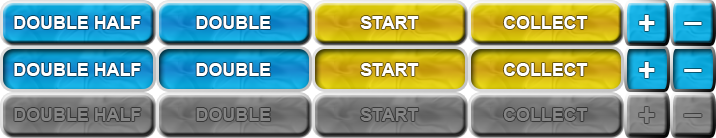
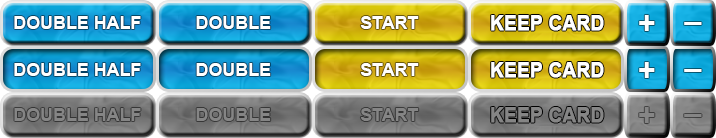
return cards to deck

Changed region(s): [[0.676, 0.7536, 0.8603, 0.8986], [0.676, 0.4348, 0.8603, 0.5797], [0.676, 0.087, 0.8603, 0.2319]]

diff --git a/js/game.js b/js/game.js
@@ -86,14 +86,6 @@ define(function (require) {
 	Game.prototype.createVisualElements = function () {
 		var that = this;
 
-		// this.doubleButton = null;
-		// this.doubleHalfButton = null;
-		// this.startButton = null;
-		// this.collectButton = null;
-		// this.dealedCardsContainer = null;
-		// this.hints = null;
-		// this.message = null;
-		// this.dealedCards = [];
 		this.chosenMultiplier = "";
 
 
@@ -142,7 +134,8 @@ define(function (require) {
 		this.collectButton = new Button( "collect" );
 		this.collectButton.setXY( 1100, settings.gameHeight - 65 );
 		this.collectButton.events.clicked.add(function(){
-			// that.newState(that.STATES.FINISH);
+			that.deck.setChosenCardForKeeping();
+			that.collectButton.deactivate();
 		});
 		this.addChild(this.collectButton);
 
@@ -196,13 +189,13 @@ define(function (require) {
 		switch( game.currentState ) {
 	        case game.STATES.BET_CHOOSING:
 	        	game.hints.changeText( game.hints.TEXTS.BET );
-        		game.deactivateButtons([game.doubleButton, game.doubleHalfButton, game.collectButton]);
+        		game.deactivateButtons([game.doubleButton, game.doubleHalfButton]);
 				game.activateButtons([game.startButton]);
 	        	game.bet.activateButtons();
 	        break;
 
 			case game.STATES.START:
-				game.deactivateButtons([game.startButton, game.collectButton]);
+				game.deactivateButtons([game.startButton]);
 				game.bet.deactivateButtons();
 
 				if ( !game.player.placeBet() ) {// failed to place bet
@@ -231,7 +224,7 @@ define(function (require) {
 	        	game.wins.showFutureWins();
 	        break;
 	        case game.STATES.PICK_A_CARD:
-	        	game.deactivateButtons([game.doubleButton, game.doubleHalfButton, game.collectButton]);
+	        	game.deactivateButtons([game.doubleButton, game.doubleHalfButton]);
 	        	game.wins.hideNotChosenMultiplierSum( game.chosenMultiplier );
 	        	game.hints.hide();
 
@@ -274,7 +267,10 @@ define(function (require) {
         		});
 	        break;
 	        case game.STATES.CARDS_COLLECTION:
+		        game.hints.changeText(game.hints.TEXTS.KEEPING_CARD);
+	        	game.collectButton.activate();
 	        	setTimeout(function(){
+		        	game.collectButton.deactivate();
 	        		game.wins.hideFutureWins();
 	        		game.hints.hide();
 
@@ -282,22 +278,27 @@ define(function (require) {
 	        			game.newState(game.STATES.SWITCH_PLAYERS);
 	        		});
 	        		game.deck.collect();
-	        	}, 500);
+	        	}, 1000 * settings.cardKeepingTimeAvailable);
 	        break;
 	        case game.STATES.SWITCH_PLAYERS:
 	        	game.wins.hide();
 	        	game.switchPlayers(undefined, function(){
-		        	game.newState(game.STATES.BET_CHOOSING);
+	        		if (game.deck.isEmpty()){
+		        		game.newState(game.STATES.FINISH);
+	        		} else {
+			        	game.newState(game.STATES.BET_CHOOSING);
+	        		}
 	        	});
 	        break;
-	      //   case game.STATES.FINISH:
-       //  		game.deactivateButtons([game.doubleButton, game.doubleHalfButton, game.collectButton]);
-    			// game.activateButtons([game.startButton]);
-    			// game.bet.activateButtons();
-	      //   	game.wins.hide();
-	      //   break;
+	        case game.STATES.FINISH:
+	        	var gameOverText = "GAME OVER!";
+	        	game.players.forEach(function(player){
+	        		gameOverText += "\n" + player.getFinalBalanceText();
+	        	});
+	        	game.hints.changeText( gameOverText );
+	        break;
 	        default:
-	        	throw "no state:"+state;
+	        	throw "no such state:"+state;
 	        break;
 	   	}
 	};

diff --git a/js/deck.js b/js/deck.js
@@ -19,7 +19,7 @@ define(function (require) {
 		this.dealerCard = null;
 		this.playerCard = null;
 
-		this.cardsLeft = this.allCards.shuffle();
+		this.cardsLeft = this.allCards.slice(0).shuffle();
 		this.cardsLeft.forEach(function(card, i){
 			this.addChild(card, this.cardsLeft.length-1);
 			card.position.x=125-i/4;
@@ -36,6 +36,10 @@ define(function (require) {
 
 	Deck.prototype = Object.create( PIXI.DisplayObjectContainer.prototype );
 
+	Deck.prototype.isEmpty = function () {
+		return this.cardsLeft.length === 0;
+	};
+
 	Deck.prototype.handlePick = function( pickedCard ){
 		this.playerCard = pickedCard;
 		this.disableCardPick();
@@ -47,35 +51,33 @@ define(function (require) {
 		var that = this,
 			cardIndex = settings.totalPlayableCards - 1;
 
-		[].range(0, settings.totalPlayableCards-1).forEach(function(i){
+		var cardsToDeal = Math.min(settings.totalPlayableCards, that.cardsLeft.length);
+
+		[].range(0, cardsToDeal-1).forEach(function(index){
 			var card = that.cardsLeft.pop();
-			if (!card) return;
 			that.cardsArr.unshift(card);
 			card.events.clicked.add( function( pickedCard ){
 				that.handlePick( pickedCard );
 				that.events.cardPicked.dispatch();
 			});
+			if (index===cardsToDeal-1){
+				setTimeout(function(){
+					card.deal(cardsToDeal-1-index, function(){
+						that.events.allCardsDealed.dispatch();
+					});
+				}, (cardsToDeal-1-index)*100);
+			} else {
+				setTimeout(function(){
+					card.deal(cardsToDeal-1-index);
+				}, (cardsToDeal-1-index)*100);
+			}
 		});
 
-		function animateCard () {
-			if ( cardIndex >= 0 && cardIndex<that.cardsArr.length) {
-				var currentCard = that.cardsArr[cardIndex];
-				currentCard.showBack();
-				currentCard.deal(cardIndex, function(){
-					cardIndex--;
-					animateCard();
-				});
-			} else {
-				that.events.allCardsDealed.dispatch();
-			}
-		}
-
-		animateCard();
 	};
 
 	Deck.prototype.collect = function () {
 		var that = this,
-			cardIndex = settings.totalPlayableCards - 1;
+			cardIndex = that.cardsArr.length - 1;
 
 		this.hideWinEffects();
 
@@ -83,10 +85,15 @@ define(function (require) {
 			if ( cardIndex >= 0 ) {
 				var currentCard = that.cardsArr[cardIndex];
 				currentCard.hide(function(){
+					that.removeChild(currentCard);
+					if (that.cardsArr[cardIndex] === that.playerCard && that.playerCard.keep){
+						currentCard.reset();
+					}
 					cardIndex--;
 					animateCard();
 				});
 			} else {
+				that.cardsArr.length=0;
 				that.events.allCardsHidden.dispatch();
 			}
 		}
@@ -154,6 +161,17 @@ define(function (require) {
 				card.hideWinFrame();
 			}
 		});
+	};
+
+	Deck.prototype.setChosenCardForKeeping = function(){
+
+		this.playerCard.setKeep();
+		this.cardsArr.splice(this.cardsArr.indexOf(this.playerCard), 1);
+		this.setChildIndex(this.playerCard, 0);
+		this.cardsLeft.splice(0, 0, this.playerCard);
+		this.playerCard.hide(function(){
+			this.playerCard.reset();
+		}.bind(this));
 	};
 
 	Deck.prototype.restart = function(){

diff --git a/js/card.js b/js/card.js
@@ -22,6 +22,7 @@ define(function (require) {
 		this.position.x = settings.cardsDefaultPosition.x;
 		this.position.y = settings.cardsDefaultPosition.y;
 
+		this.keep = false;
 		this.interactive = false;
 		this.buttonMode = false;
 		this.active = false;
@@ -97,12 +98,21 @@ define(function (require) {
 	};
 
 	Card.prototype.hide = function( callback ){
+		var moveTo = new PIXI.Point();
+		if (this.keep){
+			moveTo.x = settings.cardsDefaultPosition.x;
+			moveTo.y = settings.cardsDefaultPosition.y;
+		} else {
+			moveTo.x = settings.cardPositionOutsideGame;
+			moveTo.y = this.position.y
+		}
+
 		var that = this;
 		TweenMax.to(this.position, 0.2, {
-					x: settings.cardPositionOutsideGame,
+					x: moveTo.x,
+					y: moveTo.y,
 					ease: Power1.easeIn,
 					onComplete: function(){
-						that.reset();
 						callback && callback();
 					}
 				});
@@ -159,8 +169,21 @@ define(function (require) {
 		this.isWinCard = true;
 	};
 
+	Card.prototype.setKeep = function(){
+		this.keep = true;
+	};
+
 	Card.prototype.reset = function(){
-		this.parent.removeChild(this);
+		this.keep = false;
+		this.interactive = false;
+		this.buttonMode = false;
+		this.active = false;
+		this.flipped = false;
+		this.isWinCard = false;
+		this.backImage.visible = true;
+		this.frontImage.visible = false;
+		this.hoverFrame.visible = false;
+		this.winFrame.visible = false;
 	};
 
 	return Card;

diff --git a/js/hints.js b/js/hints.js
@@ -19,13 +19,16 @@ define(function (require) {
 		this.addChild(this.hintText);
 
 		this.TEXTS = {
-			BET 				: this.prefix + "CHOOSE YOUR BET, PLEASE",
-			CHOOSE_BUTTON 		: this.prefix + "CHOOSE DOUBLE OR DOUBLE HALF",
-			PICK 				: this.prefix + "PICK A HIGHER CARD TO WIN!",
-			LOOSER 				: this.prefix + "BETTER LUCK NEXT TIME!",
-			CONGRATS 			: this.prefix + "CONGRATULATIONS! YOU WIN!",
-			TIE 				: this.prefix + "IT'S A TIE. TRY AGAIN"
+			BET 				: this.prefix + ":" + "CHOOSE YOUR BET, PLEASE",
+			CHOOSE_BUTTON 		: this.prefix + ":" + "CHOOSE DOUBLE OR DOUBLE HALF",
+			PICK 				: this.prefix + ":" + "PICK A HIGHER CARD TO WIN!",
+			LOOSER 				: this.prefix + ":" + "BETTER LUCK NEXT TIME!",
+			CONGRATS 			: this.prefix + ":" + "CONGRATULATIONS! YOU WIN!",
+			TIE 				: this.prefix + ":" + "IT'S A TIE. TRY AGAIN",
+			KEEPING_CARD		: this.prefix + ":" + "TO RETURN THE CHOSEN CARD CLICK THE BUTTON",
+			FINAL_BALANCE		: this.prefix + " with FINAL_BALANCE: ",
 		};
+		this.TEXTS.KEEPING_CARD += "(in " + new String(settings.cardKeepingTimeAvailable) + " seconds)";
 
 	};
 

diff --git a/js/settings.js b/js/settings.js
@@ -2,7 +2,15 @@ define(function (require) {
 	var settings = {
 		gameWidth: 1280,
 		gameHeight: 770,
-		assets: ['img/cards.json'],
+		assets: [
+		"img/bg.jpg",
+		"img/buttons.png",
+		"img/cards.json",
+		"img/cards.png",
+		"img/cards_back.png",
+		"img/golden_frame.png",
+		"img/green_frame.png"
+		],
 		btnTypes: [ "double", "doubleHalf", "increase", "decrease", "start", "collect" ],
 		cardPositions: [{x: 350, y: 330}, {x: 570, y: 330}, {x: 750, y: 330}, {x: 930, y: 330}, {x: 1110, y: 330}],
 		cardPositionOutsideGame: 1280 + 200,
@@ -22,6 +30,7 @@ define(function (require) {
 		totalDeckCards: 52,
 		totalPlayableCards: 5,
 		cardsScale: 1.5,
+		cardKeepingTimeAvailable: 1,//in seconds
 		cardsMaxRank: 13
 	};
 

diff --git a/js/player.js b/js/player.js
@@ -17,7 +17,7 @@ define(function (require) {
 		this.bet     = this.addChild(new Bet());
 
 		/* TEXTS */
-		this.hints = new Hints({"prefix":"Player " + new String(id) + ":"});
+		this.hints = new Hints({"prefix":"Player " + new String(id)});
 		this.addChild(this.hints);
 
 
@@ -28,6 +28,13 @@ define(function (require) {
 
 	Player.prototype.getBalance = function() {
 		return this.balance.amount;
+	};
+
+	Player.prototype.getFinalBalanceText = function() {
+		var result = "";
+		result += this.hints.TEXTS.FINAL_BALANCE;
+		result += new String(this.getBalance());
+	    return result;
 	};
 
 	Player.prototype.placeBet = function() {
